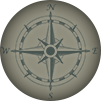
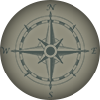
Compass navigation (see suggestion below)
Characters are too small, I suggest another compas implementation :
https://drive.google.com/open?id=0B7CUJfp92kF8UkxmeUpMandNNEE&authuser=0

diff --git a/script/entities/Entity_Compass.js b/script/entities/Entity_Compass.js
@@ -23,34 +23,13 @@
  */
 
 !(function () {
-    var assets = [
-        {type: Cassava.Assets.IMAGE, name: 'hud', src: './assets/img/Board.png'},
-        {type: Cassava.Assets.IMAGE, name: 'glass', src: './assets/img/Glass.png'},
-        {type: Cassava.Assets.IMAGE, name: 'pointOnRadar', src: './assets/img/icons.png'},
-        {type: Cassava.Assets.IMAGE, name: 'charactersDigit', src: './assets/img/Digits.png'},
-        {type: Cassava.Assets.IMAGE, name: 'shattering', src: './assets/img/shattering.png'},
-        {type: Cassava.Assets.IMAGE, name: 'compass', src: './assets/img/CompassBack.png'}
-    ];
-
-    var initialArmor = 100;
-    var initialFuel = 100;
-    var initialO2 = 100;
-    var initialAmmo = 5;
-    var ammoMax = 10;
-
-    game.initialState({
-        ammo: initialAmmo,
-        ammoMax: ammoMax,
-        armor: initialArmor,
-        armorMax: initialArmor,
-        fuel: initialFuel,
-        fuelMax: initialFuel,
-        o2: initialO2,
-        o2Max: initialO2,
-        time: 0
-    });
-
-    game.assets(assets)
-        .background('#007224')
-        .startAtScreen('screen_game');
-})()
+    game.Entity.define('entity_compass')
+        .onCreate(function (args) {
+            this.id = 'compass';
+            this.z = 2;
+            this.x = args.x;
+            this.y = args.y;
+        })
+        .spriteDelta(-50, -50)
+        .sprite('sprite_compass');
+})();

diff --git a/script/entities/Entity_Hud.js b/script/entities/Entity_Hud.js
@@ -28,7 +28,7 @@
     
     game.Module.define('module_hudUpdater')
         .onUpdate(function (entity, screen, game) {
-            var sentence, player, seconds, minutes, hours;
+            var sentence, player, seconds, minutes, hours, compass;
         
             sentence = entity.child('armor');
             if (!sentence) {
@@ -110,9 +110,16 @@
                     y: 537
                 })
             }
+
+            compass = entity.child('compass');
+            if (!compass) {
+                compass = entity.addChild('entity_compass', {
+                    x: 714,
+                    y:61
+                })
+            }
             
             player = screen.getEntity('entity_player', 'player');
-            
             if (player) {
                 sentence.module('module_sentenceDigit')
                     .sentence = 
@@ -123,10 +130,9 @@
                         ((player.y < 100) ? '0' : '') + 
                         ((player.y < 10) ? '0' : '') + 
                         ~~player.y;
+                    
+                compass.sprite.rotation = (player.module('module_physics').rotation - Math.PI / 2);
             }
-            
-            
-            
         });
 
     game.Entity.define('entity_hud')

diff --git a/script/sprites/Sprite_Compass.js b/script/sprites/Sprite_Compass.js
@@ -23,34 +23,6 @@
  */
 
 !(function () {
-    var assets = [
-        {type: Cassava.Assets.IMAGE, name: 'hud', src: './assets/img/Board.png'},
-        {type: Cassava.Assets.IMAGE, name: 'glass', src: './assets/img/Glass.png'},
-        {type: Cassava.Assets.IMAGE, name: 'pointOnRadar', src: './assets/img/icons.png'},
-        {type: Cassava.Assets.IMAGE, name: 'charactersDigit', src: './assets/img/Digits.png'},
-        {type: Cassava.Assets.IMAGE, name: 'shattering', src: './assets/img/shattering.png'},
-        {type: Cassava.Assets.IMAGE, name: 'compass', src: './assets/img/CompassBack.png'}
-    ];
-
-    var initialArmor = 100;
-    var initialFuel = 100;
-    var initialO2 = 100;
-    var initialAmmo = 5;
-    var ammoMax = 10;
-
-    game.initialState({
-        ammo: initialAmmo,
-        ammoMax: ammoMax,
-        armor: initialArmor,
-        armorMax: initialArmor,
-        fuel: initialFuel,
-        fuelMax: initialFuel,
-        o2: initialO2,
-        o2Max: initialO2,
-        time: 0
-    });
-
-    game.assets(assets)
-        .background('#007224')
-        .startAtScreen('screen_game');
+    game.Sprite.define('sprite_compass')
+        .asset('compass');
 })()

diff --git a/index.html b/index.html
@@ -31,6 +31,7 @@
         <script src="script/entities/Entity_Bonus.js"></script>
         <script src="script/entities/Entity_SentenceDigit.js"></script>
         <script src="script/entities/Entity_Shattering.js"></script>
+        <script src="script/entities/Entity_Compass.js"></script>
 
         <script src="script/modules/Module_Physics.js"></script>
         <script src="script/modules/Module_Radar.js"></script>
@@ -44,6 +45,7 @@
         <script src="script/sprites/Sprite_Glass.js"></script>
         <script src="script/sprites/Sprite_CharactersDigit.js"></script>
         <script src="script/sprites/Sprite_Shattering.js"></script>
+        <script src="script/sprites/Sprite_Compass.js"></script>
 
         <script src="script/Start.js"></script>
     </body>
